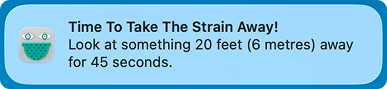
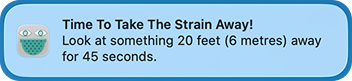
Fixed README Images

diff --git a/README.md b/README.md
@@ -60,11 +60,11 @@ to address this I have added a custom notification interval and break duration f
 
 **Light mode**
 
-![Light mode notification](screenshots/StrainAway-macOS-v1.1-Screnshots/macOS_StrainAway_light_notification.png) 
+![Light mode notification](screenshots/StrainAway-macOS-v1.1-Screnshots/macOS_StrainAway_light_default_notification.png) 
 
 **Dark mode**
 
-![Dark mode notification](screenshots/StrainAway-macOS-v1.1-Screnshots/macOS_StrainAway_dark_notification.png)
+![Dark mode notification](screenshots/StrainAway-macOS-v1.1-Screnshots/macOS_StrainAway_dark_default_notification.png)
 
 **Light mode, notification from custom settings**
 